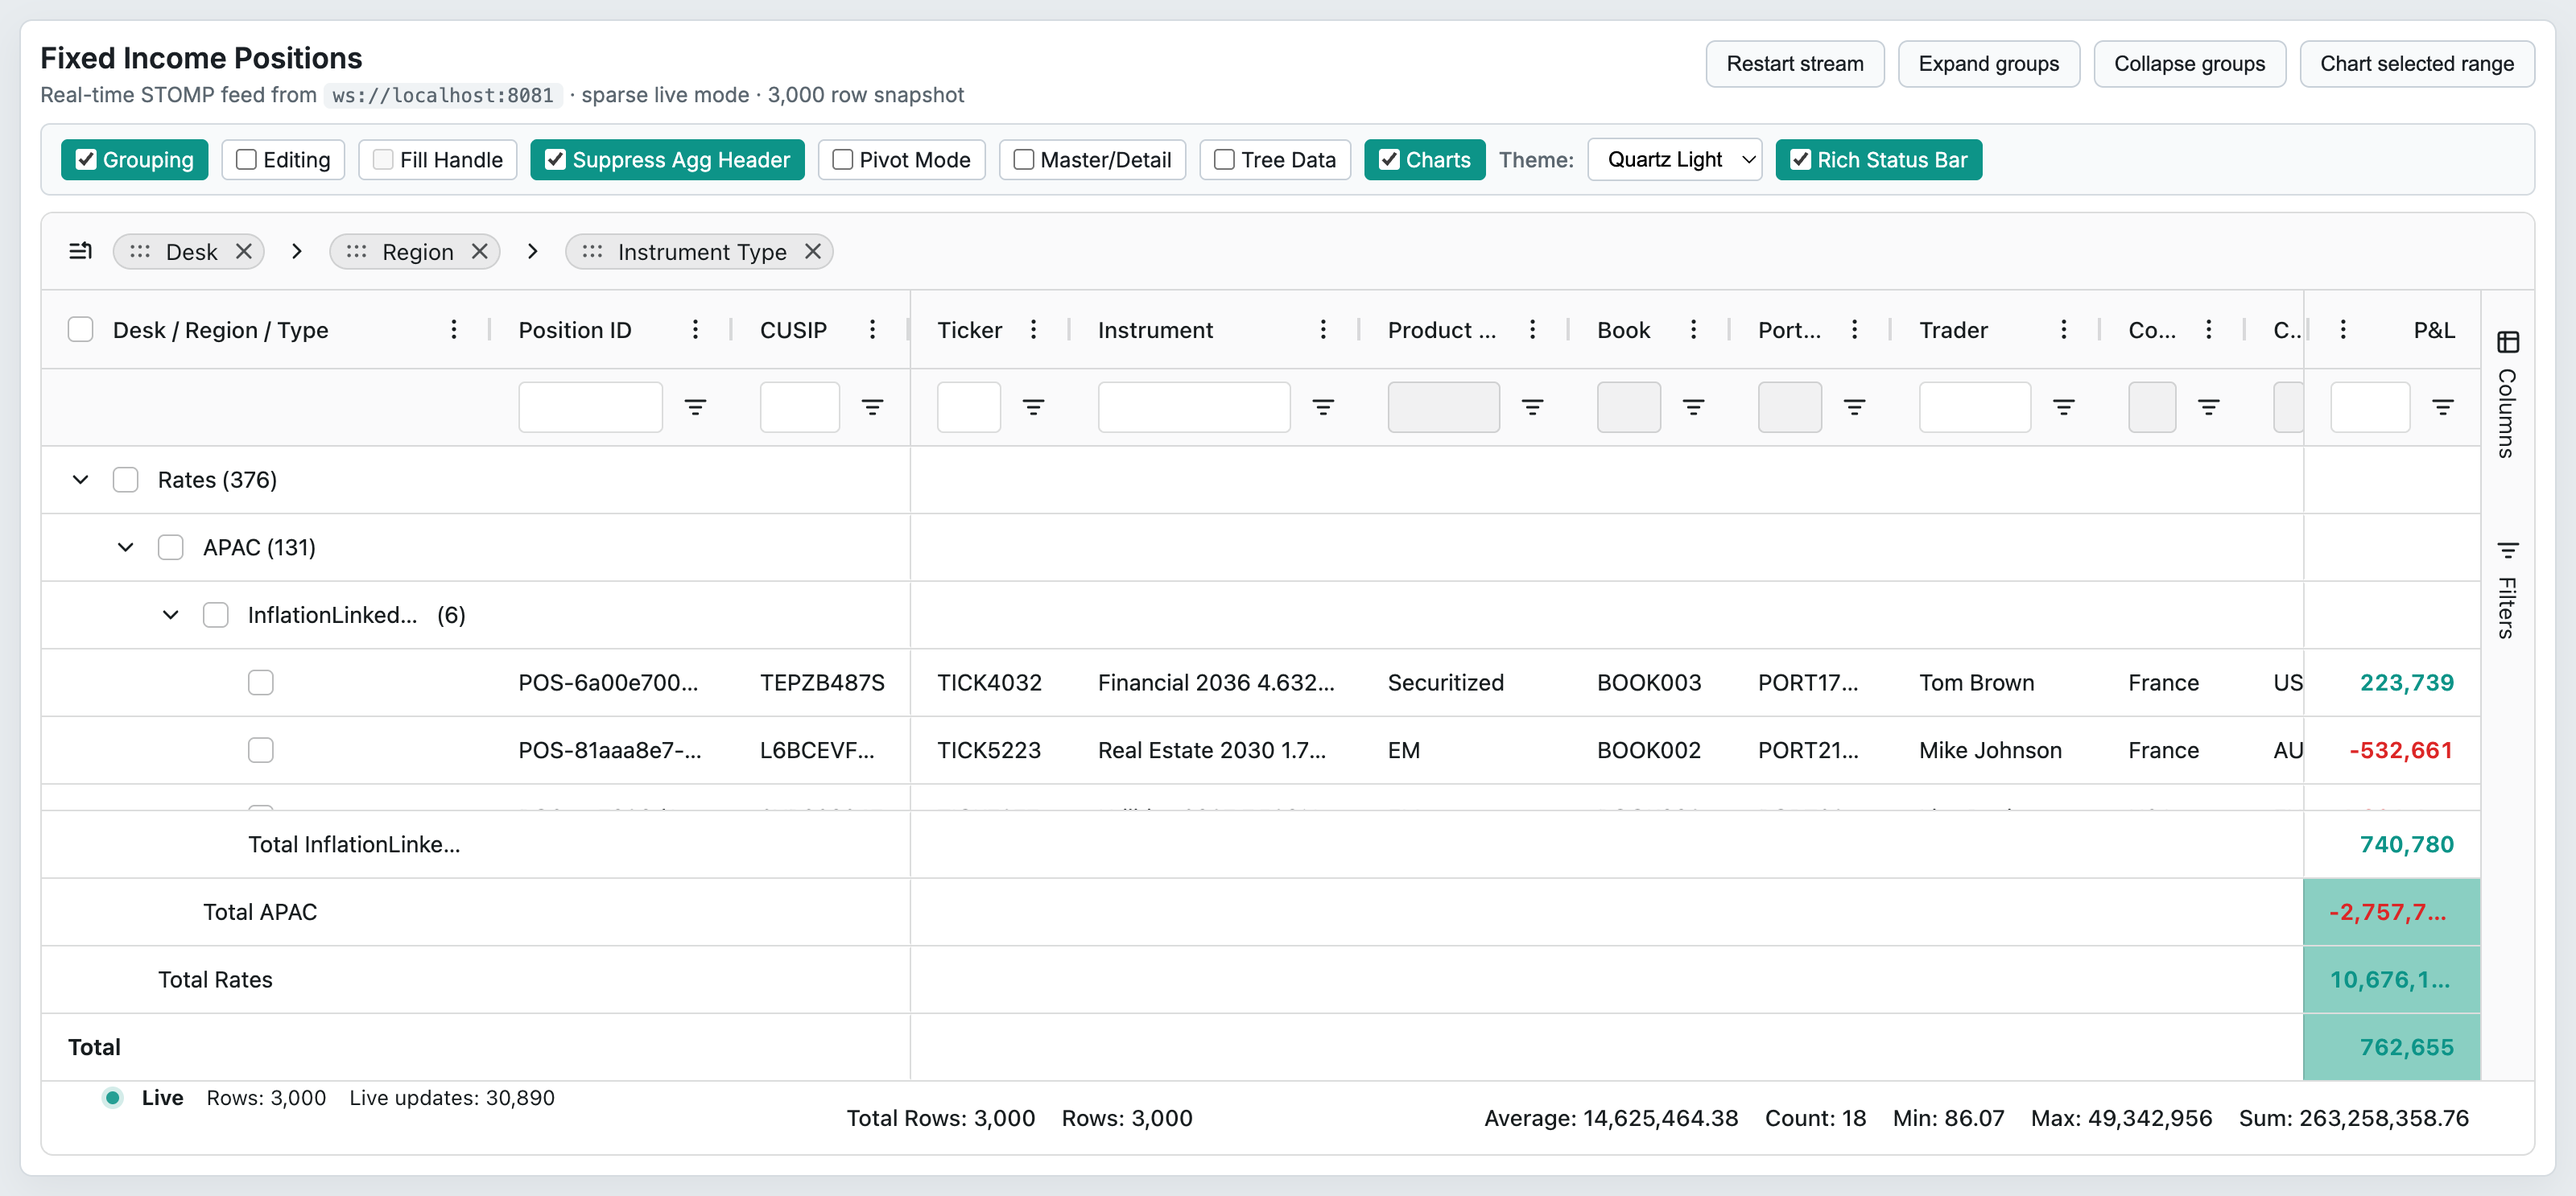
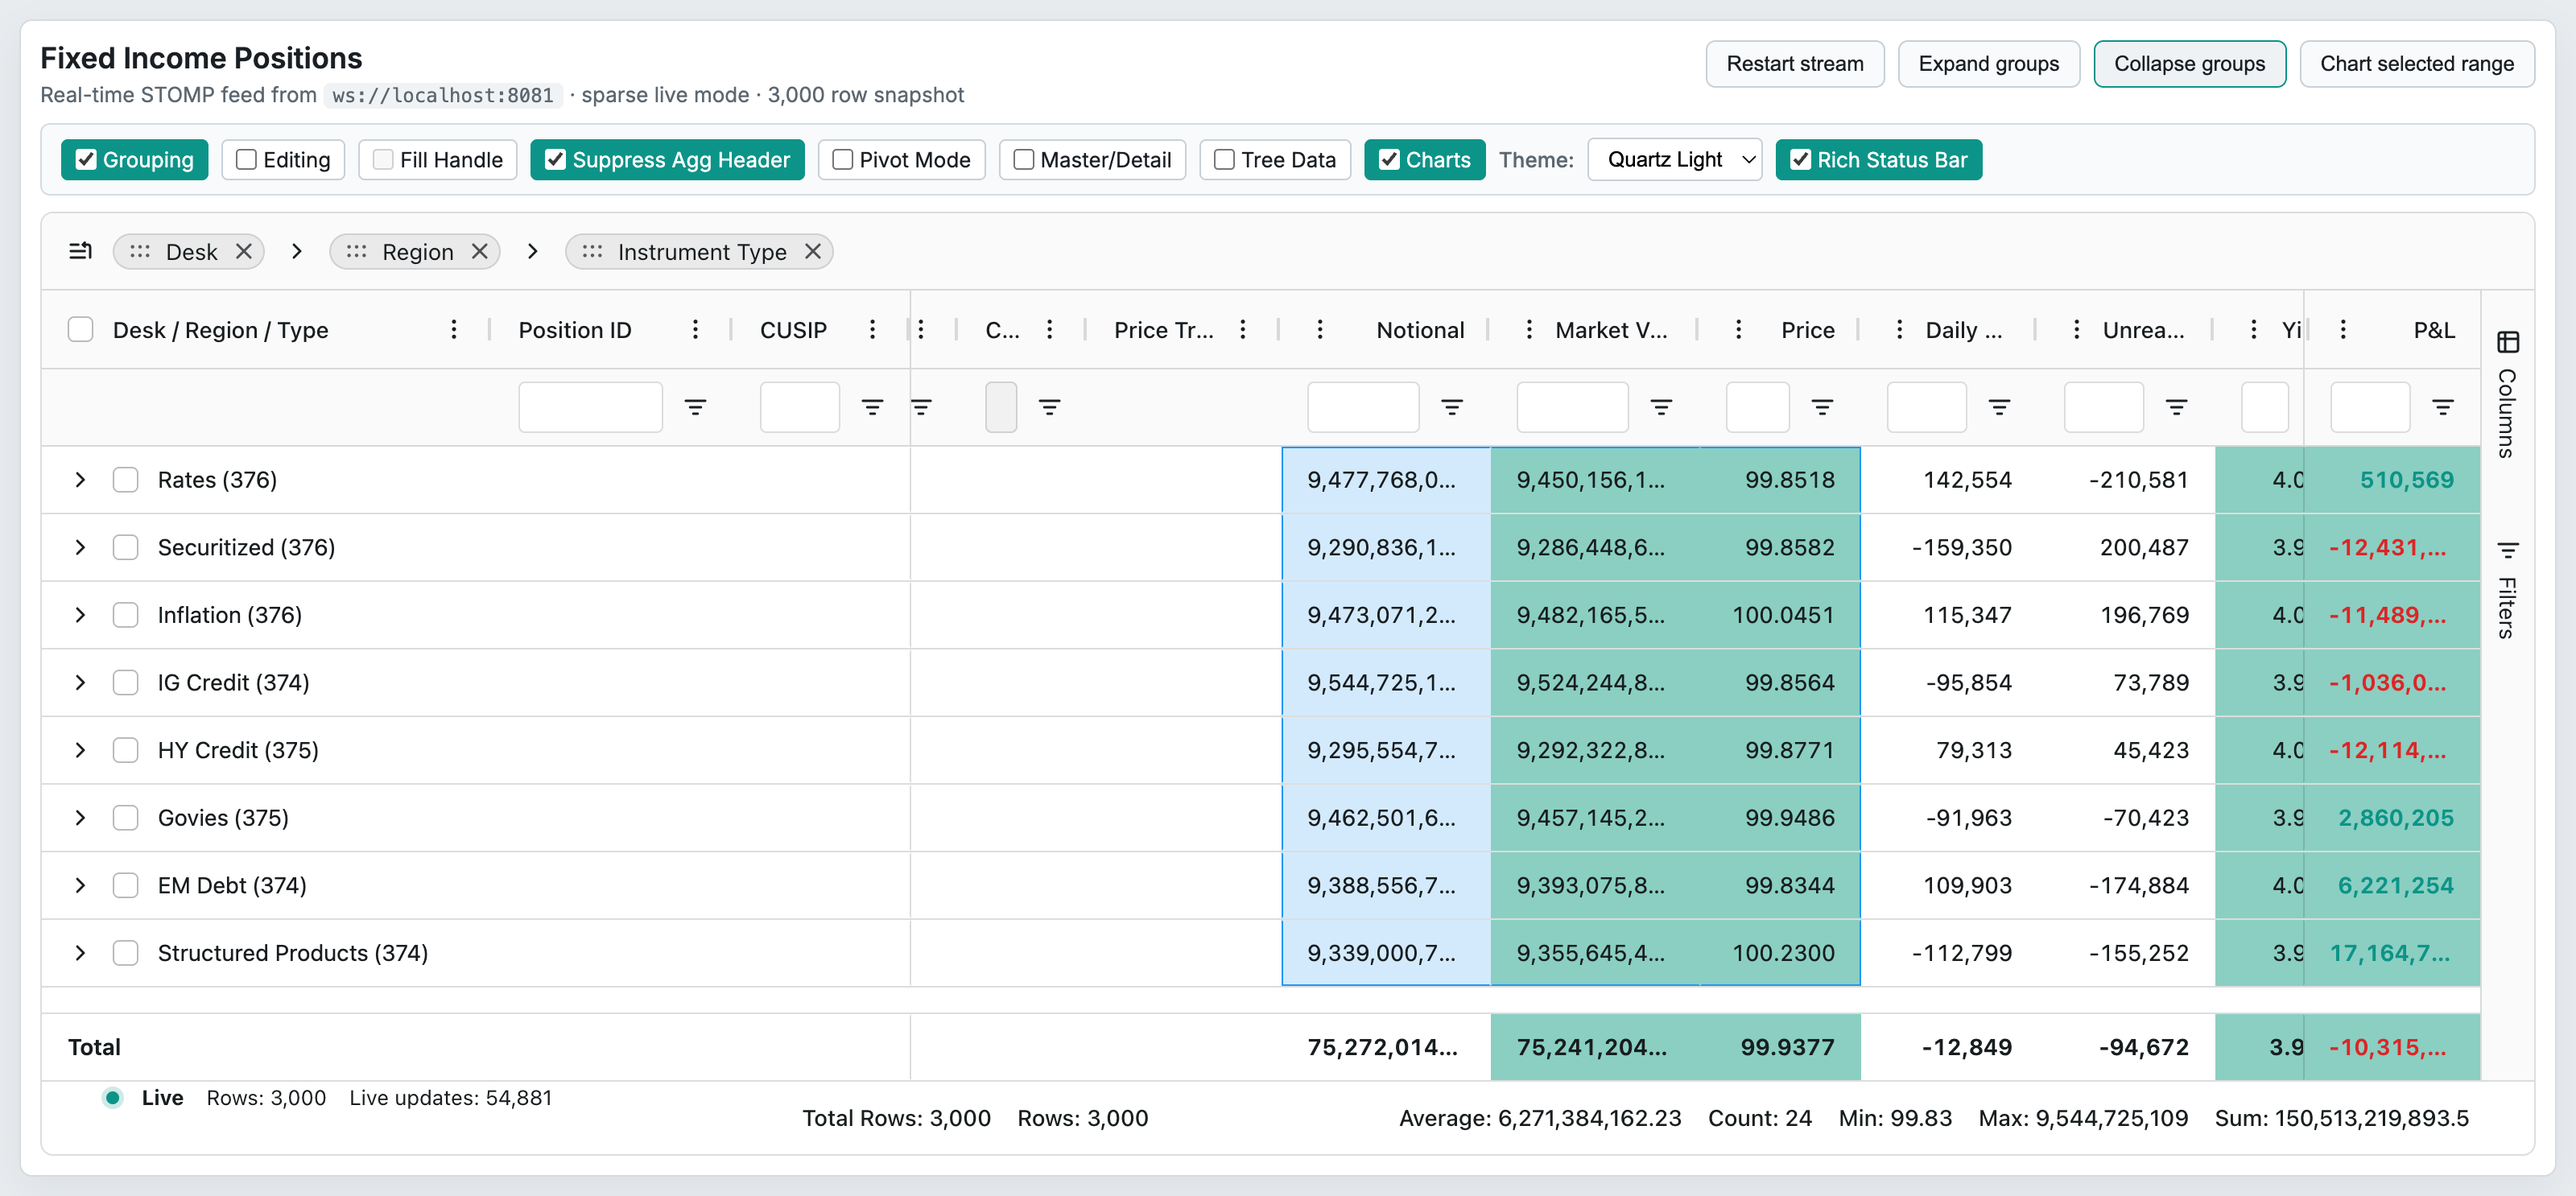
docs(catalog): re-capture chart + sparkline screenshots after AgCharts bridge fix

diff --git a/docs/catalog/24-charts-and-sparklines.md b/docs/catalog/24-charts-and-sparklines.md
@@ -101,9 +101,9 @@ Note: the aliases `ChartCreated`, `ChartRangeSelectionChanged`, `ChartOptionsCha
 
 ![Range selection for chart creation](screenshots/24-charts-range-chart.png) — Charts toggle ON; a 6-row × 3-column range (Notional, Market Value, Price) is selected in the grid ready for chart creation; the "Chart selected range" toolbar button is visible above the toggle row.
 
-![Integrated range chart dialog](screenshots/24-charts-toolbar.png) — After clicking "Chart selected range", AG Charts opens an integrated bar/column chart dialog on top of the grid showing the selected numeric data with the chart toolbar (chart type, settings, download controls).
+![Integrated range chart dialog](screenshots/24-charts-toolbar.png) — After clicking "Chart selected range", AG Charts opens an integrated line chart dialog on top of the grid showing the selected numeric data (Notional, Market Value, Price and related columns) with the chart toolbar menu (Edit Chart, Unlink from Grid, Download Chart controls).
 
-![Sparkline column — Price Trend miniature line charts](screenshots/24-sparklines-column.png) — The Price Trend column renders a miniature sparkline (AG Sparklines) in each leaf cell, showing the last-N price history as a line chart within the row height; group rows show no sparkline.
+![Sparkline column — Price Trend miniature line charts](screenshots/24-sparklines-column.png) — The Price Trend column renders a miniature sparkline (AG Sparklines) in each leaf cell via `agSparklineCellRenderer`; group rows show no sparkline. Known limitation: sparkline canvas pixels are not composited by the headless screenshot tool, so the sparkline cells appear blank in this capture even though the `SparklinesModule` and `AgChartsCommunityModule` are registered and the sparklines do render in a normal browser session.
 
 ## Canvas-port implications
 
